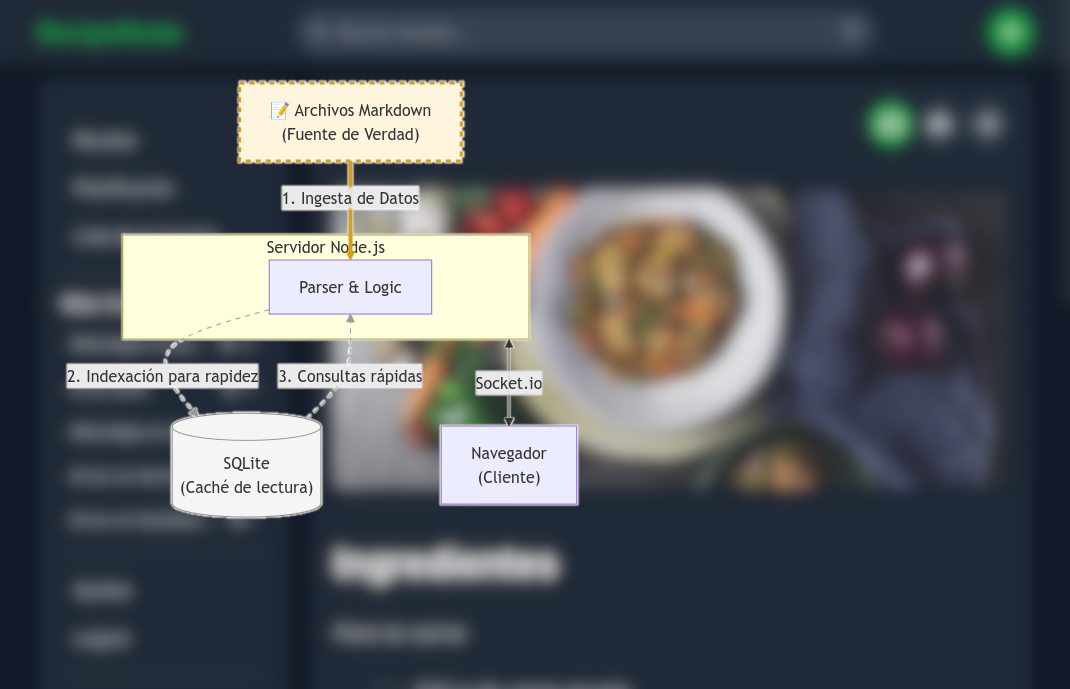
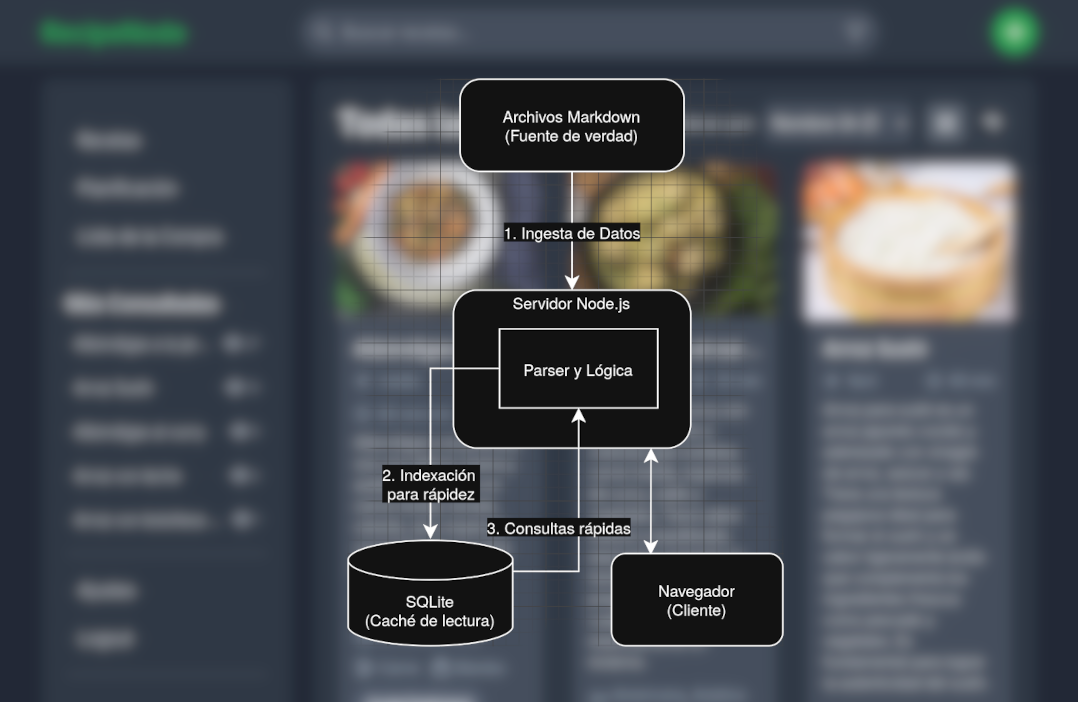
🎨🔧 Update project slides and images with improved sizing, positioning, and responsiveness. Added `imagePosition` props to both `Slide` and `Project` interfaces, and applied consistent image positioning (e.g., `object-center`, `object-left`, `object-top`) for better visual alignment across devices.

diff --git a/src/data/portfolio.ts b/src/data/portfolio.ts
@@ -51,6 +51,7 @@ export interface Slide {
   desc: string;
   image: string | ImageMetadata;
   imageAlt?: string;
+  imagePosition?: string;
   tags?: string[];
   link?: string;
 }
@@ -62,6 +63,7 @@ export interface Project {
   desc: string;
   image: string | ImageMetadata;
   imageAlt?: string;
+  imagePosition?: string;
   color: string;
   slides: Slide[];
 }
@@ -74,6 +76,7 @@ const projectsEs: Project[] = [
     desc: "Plataforma de recetas basadas en archivos markdown.",
     image: recipeNodeMain,
     imageAlt: "Interfaz de la pagina princiapl de RecipeNode, mostrando las recetas.",
+    imagePosition: "object-center md:object-left",
     color: "text-green-600",
     slides: [
       {
@@ -81,12 +84,14 @@ const projectsEs: Project[] = [
         desc: "Planifica tu mes/semana y prepara la lista de la compra acorde a los ingredientes.",
         image: recipeNodePlaning,
         imageAlt: "Vista mensual de la planificacion de comidas.",
+        imagePosition: "object-center md:object-left",
       },
       {
         title: "Arquitectura",
         desc: "Las recetas se almacenan en formato Markdown, se analizan con front-matter y marked, y se actualizan en tiempo real. El sistema aprovecha el poder de Markdown para una gestión de contenido flexible y legible.",
         image: recipeNodeArch,
         imageAlt: "Diagrama de arquitectura de RecipeNode mostrando el flujo de datos desde archivos Markdown hasta el cliente.",
+        imagePosition: "object-center md:object-left",
         tags: ["Node.js", "SQLite", "Socket.io"],
       },
       {
@@ -94,6 +99,7 @@ const projectsEs: Project[] = [
         desc: 'La aplicación está diseñada con un enfoque "mobile-first". La interfaz es completamente responsive, adaptándose a cualquier tamaño de pantalla.',
         image: recipeNodeMobile,
         imageAlt: "Vista de la web en movil",
+        imagePosition: "object-top",
       },
     ],
   },
@@ -104,6 +110,7 @@ const projectsEs: Project[] = [
     desc: "Banca digital redefinida. Visualización clara de activos y movimientos en tiempo real.",
     image: "https://images.unsplash.com/photo-1563986768609-322da13575f3?q=80&w=1200&auto=format&fit=crop",
     imageAlt: "Pantalla principal de la app Nova mostrando el saldo total y gráfico de gastos mensuales",
+    imagePosition: "object-center md:object-left",
     color: "text-emerald-200",
     slides: [
       {
@@ -111,12 +118,14 @@ const projectsEs: Project[] = [
         desc: "Sistema de pagos P2P con confirmación biométrica y cero latencia.",
         image: "https://images.unsplash.com/photo-1556742049-0cfed4f7a07d?q=80&w=1000&auto=format&fit=crop",
         imageAlt: "Usuario realizando un pago sin contacto con tarjeta de crédito a través de terminal móvil",
+        imagePosition: "object-center md:object-left",
       },
       {
         title: "Seguridad Total",
         desc: "Encriptación de extremo a extremo y detección de fraude mediante IA.",
         image: "https://images.unsplash.com/photo-1616077168079-7e09a677fb2c?q=80&w=1000&auto=format&fit=crop",
         imageAlt: "Ilustración conceptual de un candado digital brillante sobre fondo oscuro representando ciberseguridad",
+        imagePosition: "object-center md:object-left",
         link: "#",
       },
     ],
@@ -131,6 +140,7 @@ const projectsEn: Project[] = [
     desc: "A recipe platform based on Markdown files.",
     image: recipeNodeMain,
     imageAlt: "Interface of the RecipeNode main page, displaying recipes.",
+    imagePosition: "object-center md:object-left",
     color: "text-green-600",
     slides: [
       {
@@ -138,12 +148,14 @@ const projectsEn: Project[] = [
         desc: "Plan your month/week and create a shopping list based on ingredients.",
         image: recipeNodePlaning,
         imageAlt: "Monthly view of meal planning.",
+        imagePosition: "object-center md:object-left",
       },
       {
         title: "Architecture",
         desc: "Recipes are stored in Markdown format, parsed using front-matter and marked, and updated in real time. The system leverages the power of Markdown for flexible and readable content management.",
         image: recipeNodeArch,
         imageAlt: "Architecture diagram of RecipeNode showing the data flow from Markdown files to the client.",
+        imagePosition: "object-center md:object-left",
         tags: ["Node.js", "SQLite", "Socket.io"],
       },
       {
@@ -151,6 +163,7 @@ const projectsEn: Project[] = [
         desc: "The app is designed with a 'mobile-first' approach. The interface is fully responsive and adapts to any screen size.",
         image: recipeNodeMobile,
         imageAlt: "RecipeNode view on a mobile phone.",
+        imagePosition: "object-top",
       },
     ],
   },
@@ -161,6 +174,7 @@ const projectsEn: Project[] = [
     desc: "Digital banking redefined. Clear visualization of assets and real-time movements.",
     image: "https://images.unsplash.com/photo-1563986768609-322da13575f3?q=80&w=1200&auto=format&fit=crop",
     imageAlt: "Nova app main screen showing total balance and monthly expense graph",
+    imagePosition: "object-center md:object-left",
     color: "text-emerald-200",
     slides: [
       {
@@ -168,12 +182,14 @@ const projectsEn: Project[] = [
         desc: "P2P payment system with biometric confirmation and zero latency.",
         image: "https://images.unsplash.com/photo-1556742049-0cfed4f7a07d?q=80&w=1000&auto=format&fit=crop",
         imageAlt: "User making a contactless credit card payment via mobile terminal",
+        imagePosition: "object-center md:object-left",
       },
       {
         title: "Total Security",
         desc: "End-to-end encryption and AI fraud detection.",
         image: "https://images.unsplash.com/photo-1616077168079-7e09a677fb2c?q=80&w=1000&auto=format&fit=crop",
         imageAlt: "Conceptual illustration of a glowing digital padlock on dark background representing cybersecurity",
+        imagePosition: "object-center md:object-left",
         link: "#",
       },
     ],
